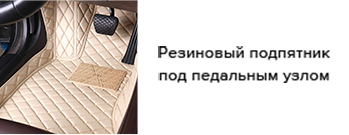
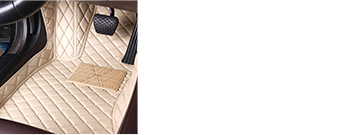
FINAAAAAL

Changed region(s): [[0.4298, 0.3259, 0.9456, 0.4444], [0.4298, 0.5333, 0.9456, 0.6222]]

diff --git a/index.html b/index.html
@@ -446,9 +446,21 @@
             <p class="threePicTitle" style="margin-top: 100px">Особенности 3D-коврикво ExzistPro</p>
             <hr />
             <div class="threePicBlock">
-              <img src="./img/threePic1.png" alt="" style="margin-bottom: 50px;">
-              <img src="./img/threePic2.png" alt="" style="margin-bottom: 50px;">
-              <img src="./img/threePic3.png" alt="">
+              <div style="background-image: url('./img/threePic1.png'); margin-bottom: 50px;">
+              <p>
+                Резиновый подпятник под педальным узлом
+              </p>
+              </div>
+              <div style="background-image: url('./img/threePic2.png'); margin-bottom: 50px;">
+              <p>
+                Дополнительный ворс с креплением к эко-коже
+              </p>
+              </div>
+              <div style="background-image: url('./img/threePic3.png');">
+              <p>
+                Поворотные язычки для крепления боковин
+              </p>
+              </div>
             </div>
             <img class="threePic" src="img/threePic.png" alt="..." />
             <button class="button">ЗАКАЗАТЬ КОМПЛЕКТ</button>

diff --git a/css/style.css b/css/style.css
@@ -1280,15 +1280,15 @@ footer {
   * {
     background-size: cover;
   }
+  .container {
+    max-width: 400px;
+  }
   .number {
     background-size: contain;
     padding-left: 15px;
   }
   input, select {
     background-size: auto;
-  }
-  .container {
-    max-width: 400px;
   }
   .header, .headerCont {
     height: 81px;
@@ -1679,6 +1679,7 @@ footer {
     flex-direction: column;
     justify-content: space-between;
     align-items: center;
+    margin: 0 auto;
   }
   .threePic {
     display: none;
@@ -1695,9 +1696,16 @@ footer {
   .light > .button {
     margin: 60px auto;
   }
-  .threePicBlock > img {
+  .threePicBlock > div {
     width: 100%;
     box-shadow: 0px 0px 50px 0px rgba(0,0,0,0.5);
+  }
+  .threePicBlock > div > p {
+    font-family: "ProximaNova";
+    margin: 40px 150px;
+    margin-right: 10px;
+    font-size: 14px;
+    line-height: 16px;
   }
 
   /*********************************************************************/
